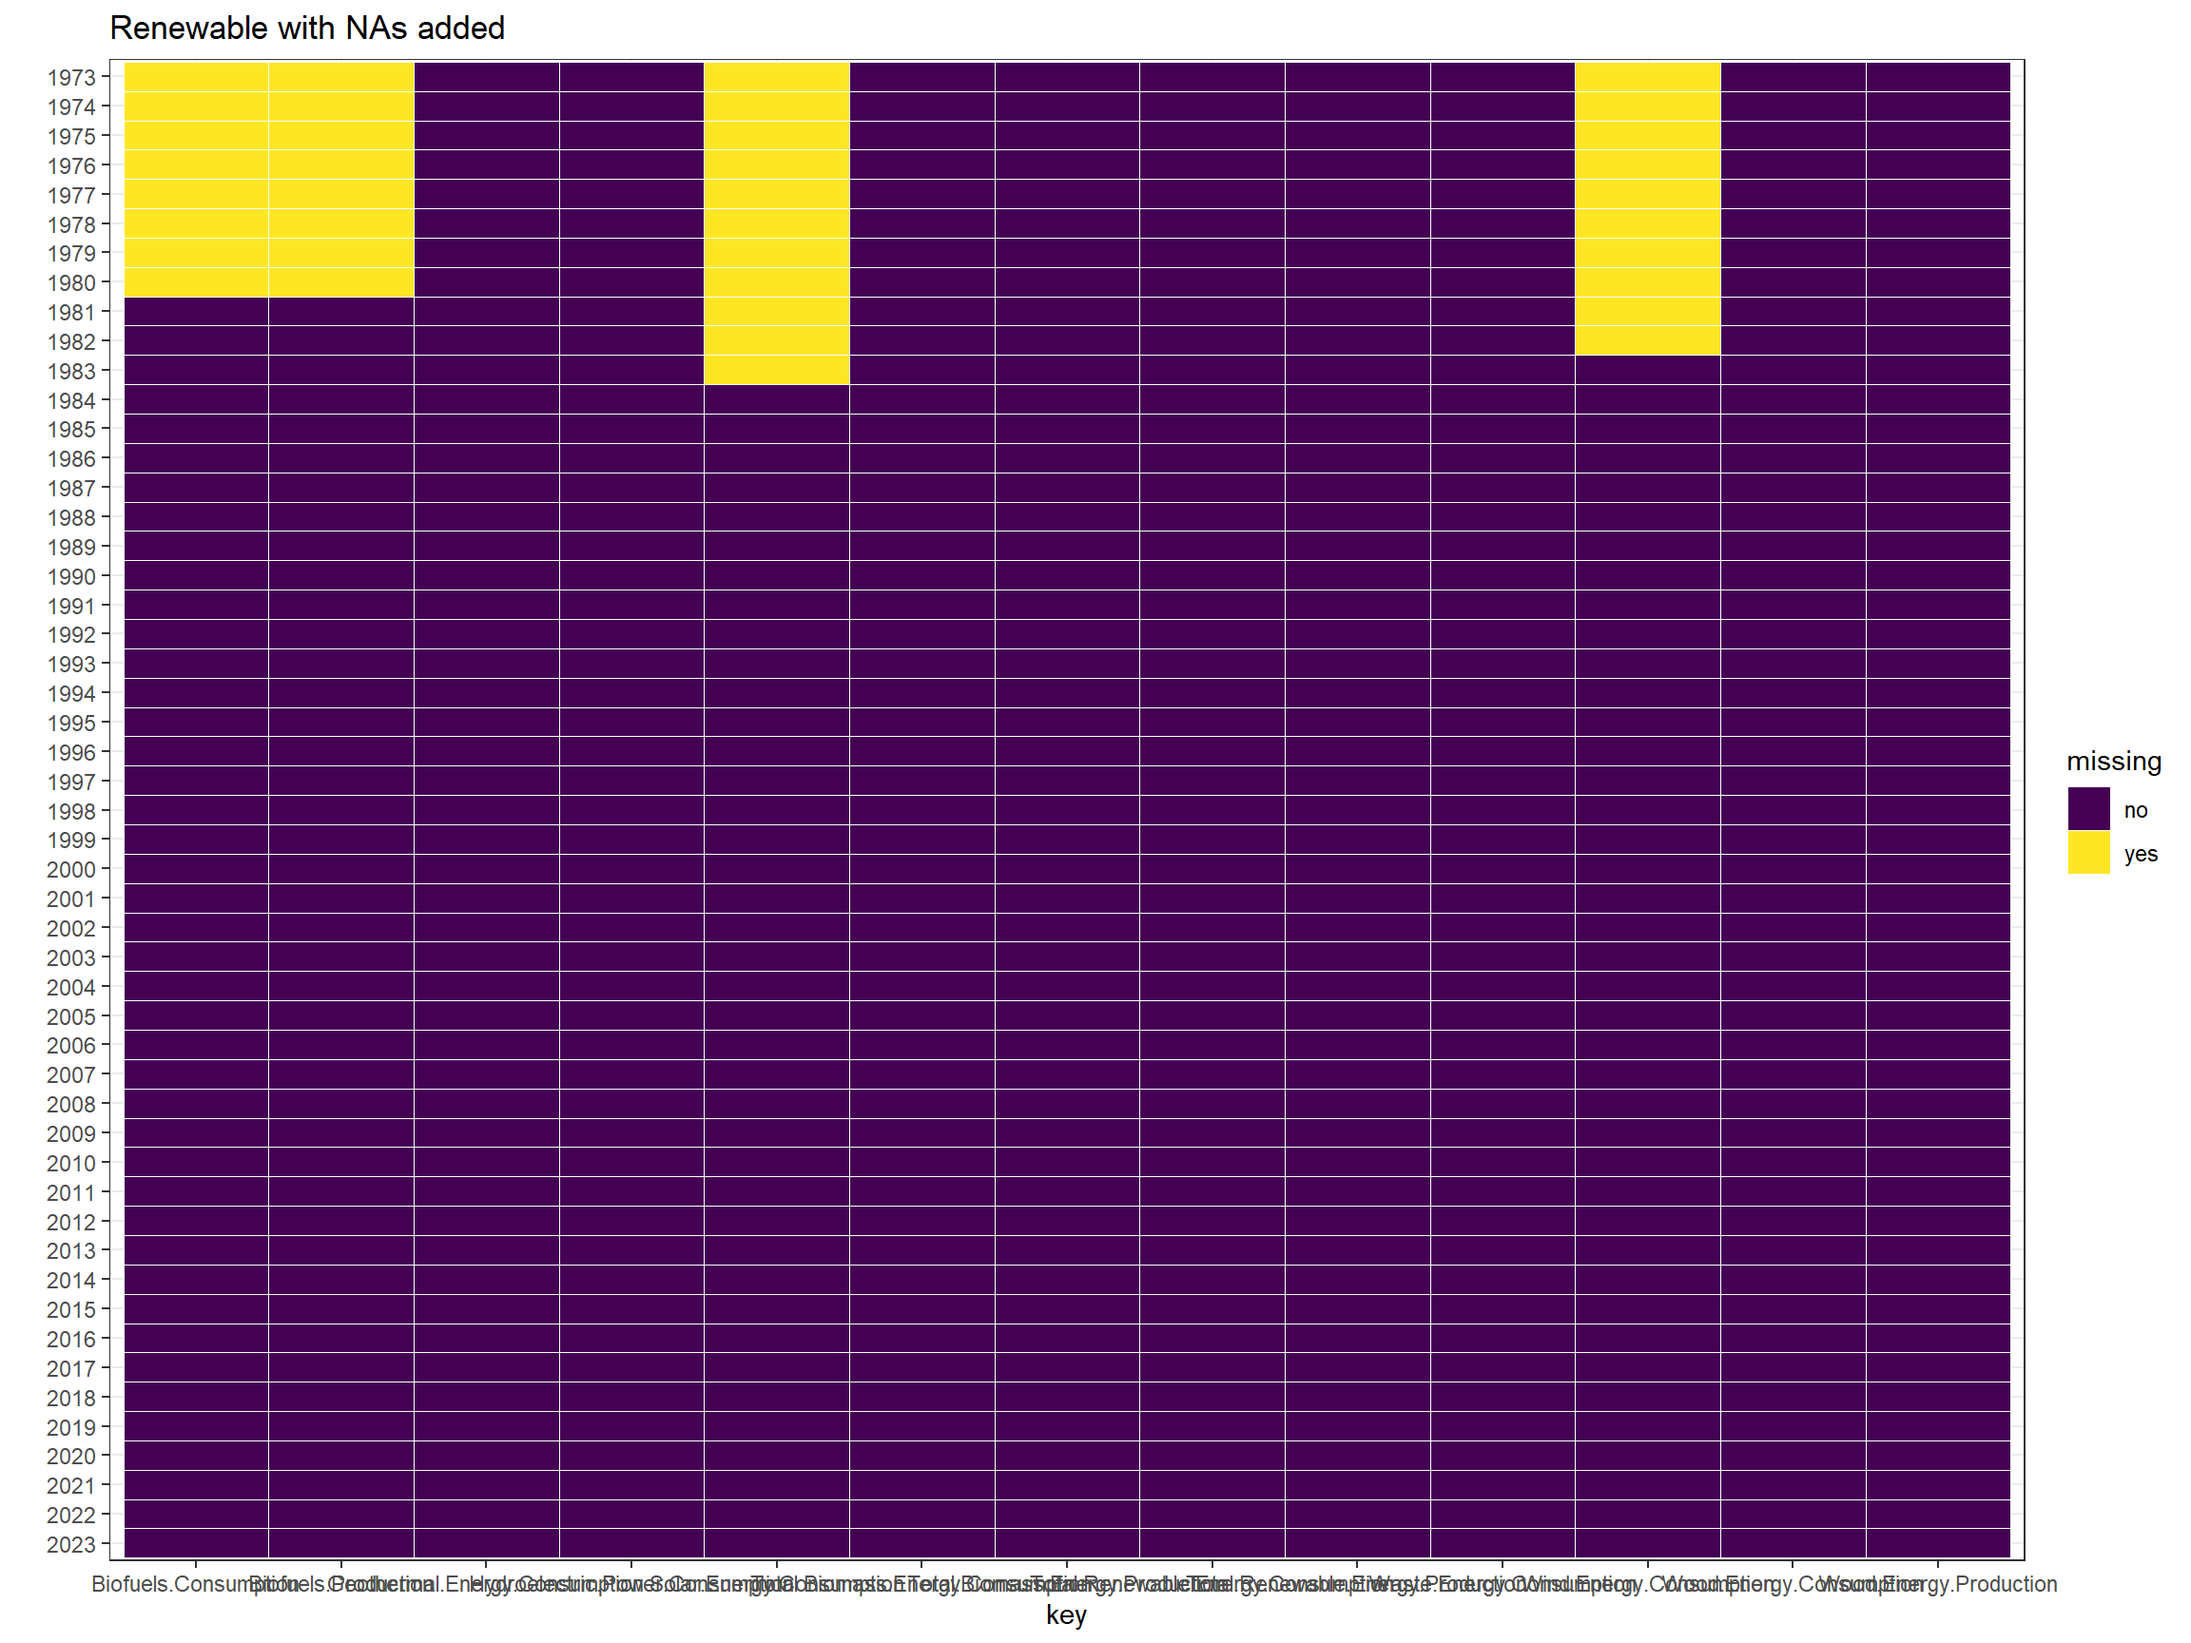
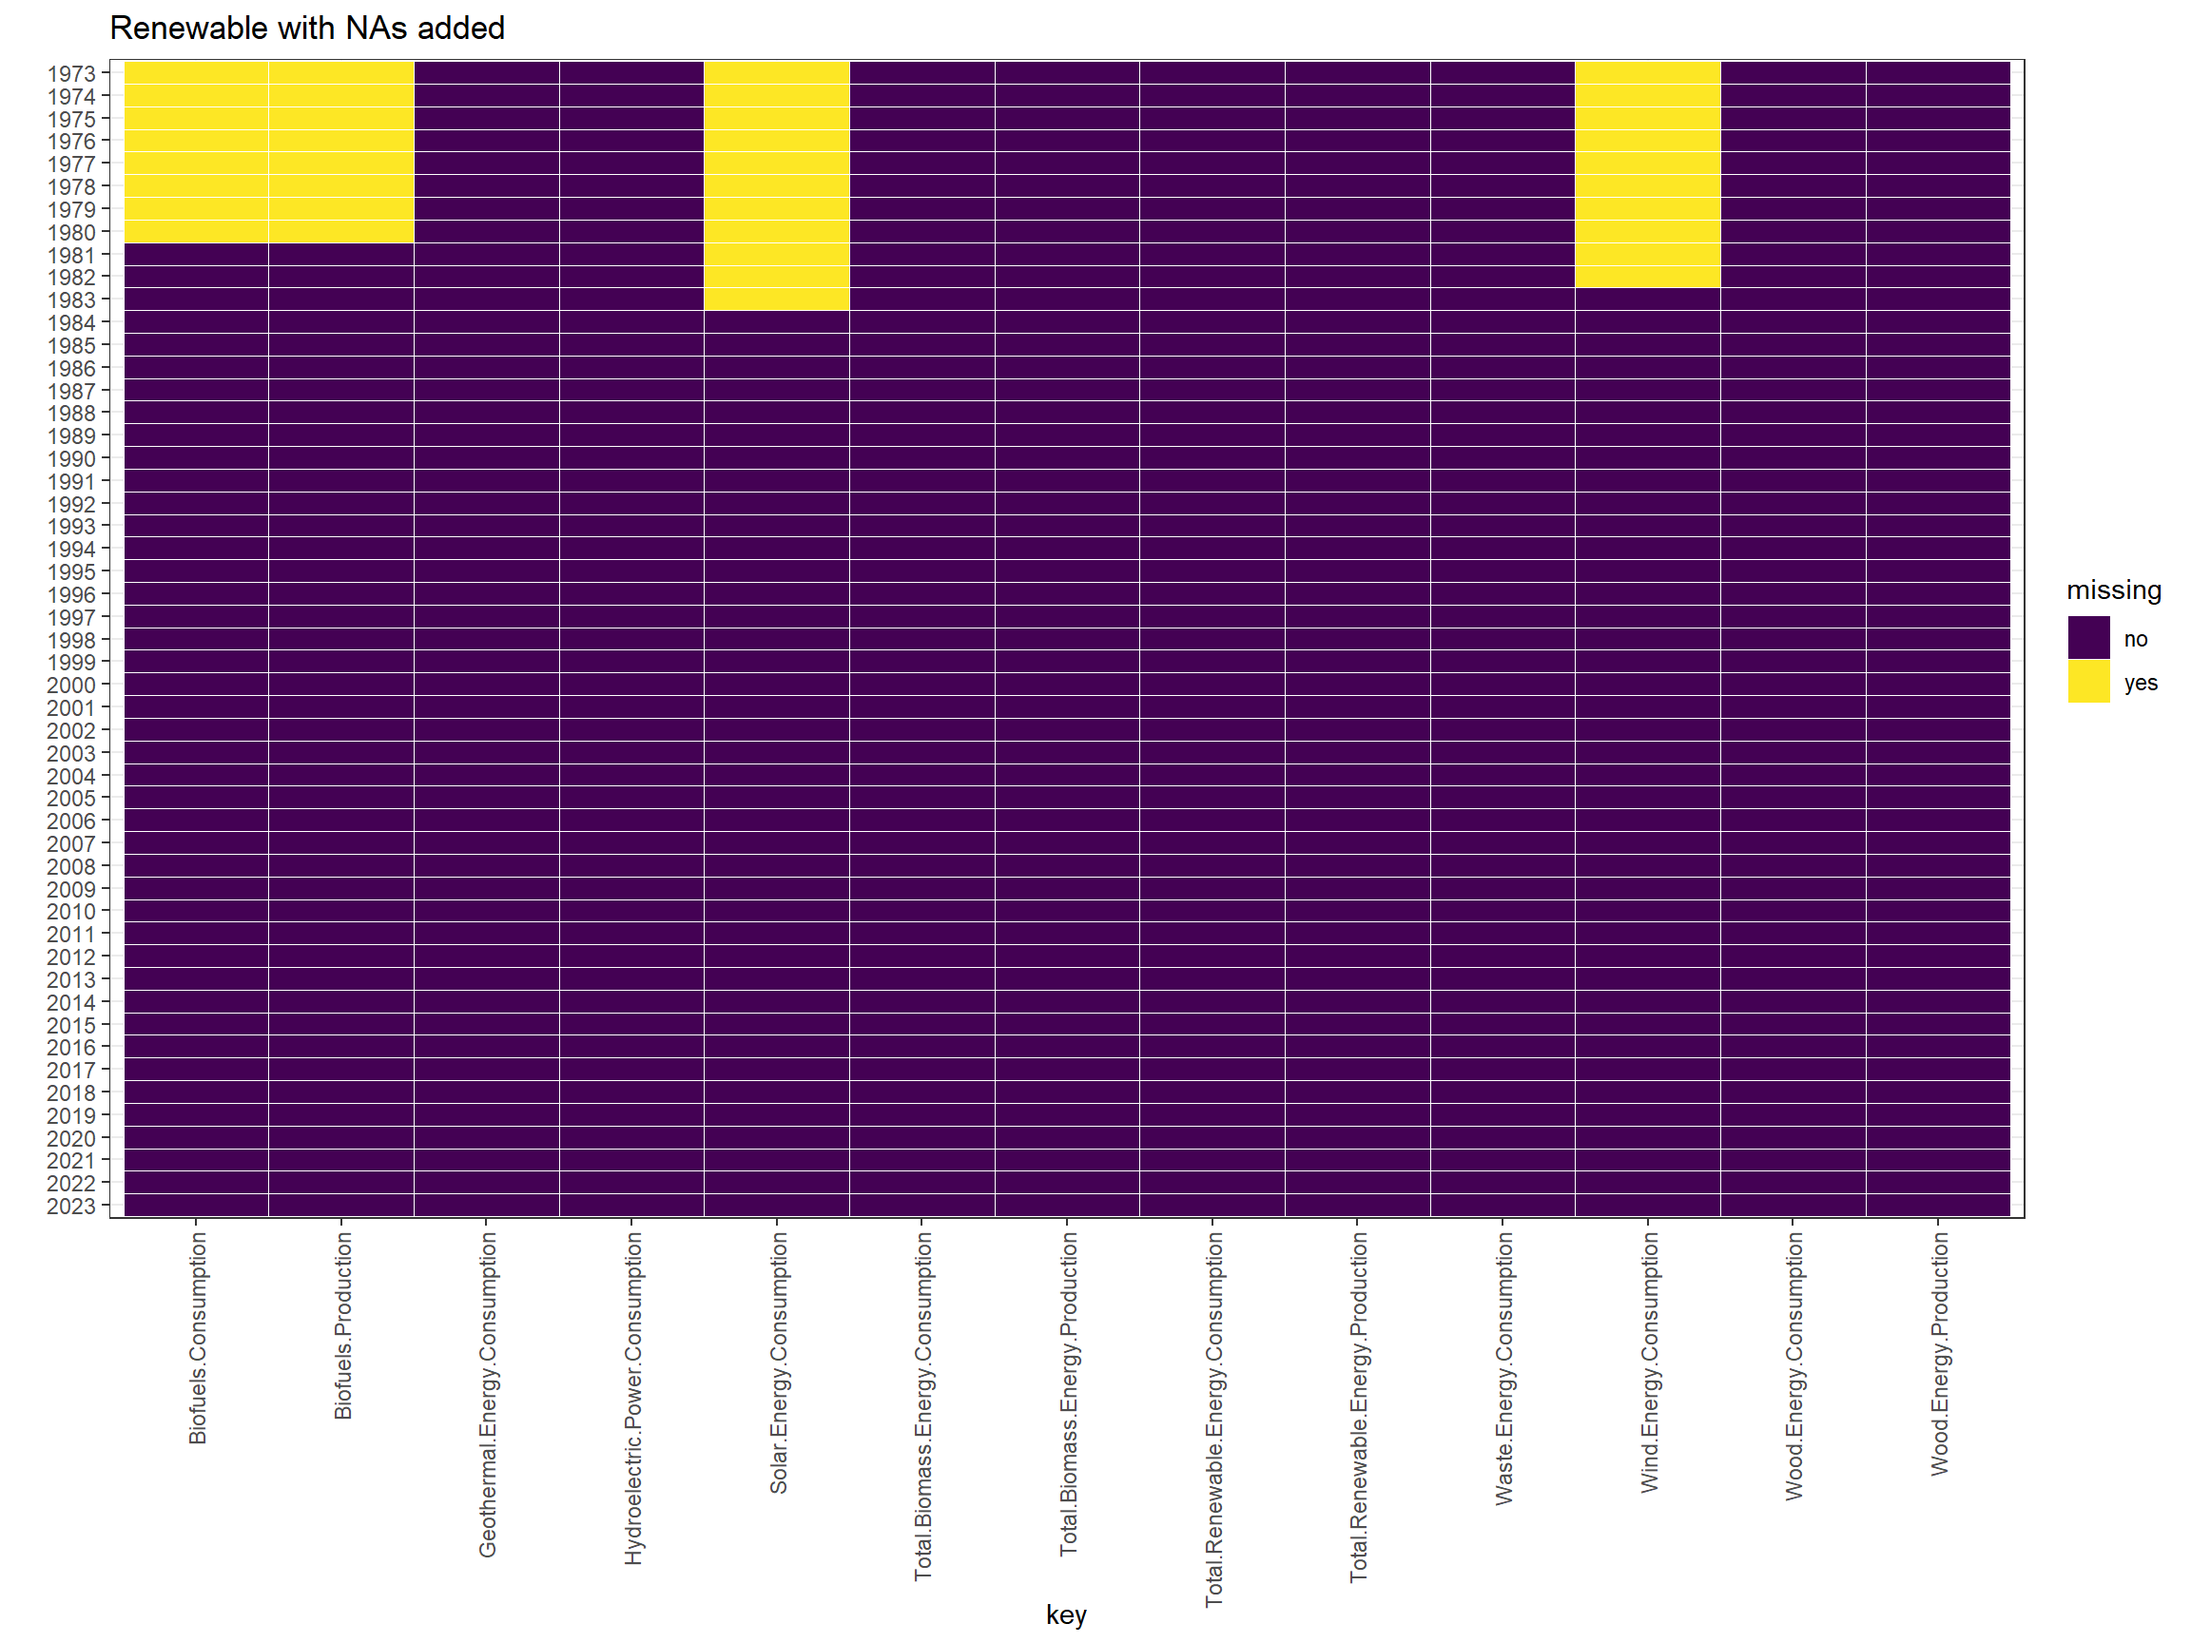
Final changes for pset4 (hopefully)

diff --git a/docs/data.html b/docs/data.html
@@ -96,6 +96,8 @@ pre > code.sourceCode > span > a:first-child::before { text-decoration: underlin
   }
 }</script>
 
+  <script src="https://polyfill.io/v3/polyfill.min.js?features=es6"></script>
+  <script src="https://cdn.jsdelivr.net/npm/mathjax@3/es5/tex-chtml-full.js" type="text/javascript"></script>
 
 </head>
 
@@ -208,9 +210,9 @@ pre > code.sourceCode > span > a:first-child::before { text-decoration: underlin
 <p>Data source link: <a href="https://www.eia.gov/totalenergy/data/monthly/" class="uri">https://www.eia.gov/totalenergy/data/monthly/</a></p>
 <p>This data source contains multiple data tables, and we will focus on the following data tables:</p>
 <ol type="1">
-<li>Energy Review Category: “Table_1.1_Primary_Energy_Overview”, “Table_1.2_Primary_Energy_Production_by_Source”, “Table_1.3_Primary_Energy_Consumption_by_Source”</li>
-<li>Renewable Energy Category: “Table_10.1_Renewable_Energy_Production_and_Consumption_by_Source”</li>
-<li>Environment Category: “Table_11.1_Carbon_Dioxide_Emissions_From_Energy_Consumption_by_Source”</li>
+<li>Energy Review Category: “Table_1.1_Primary_Energy_Overview” (608 rows each for one month, 13 columns with one column of months and 12 columns of energy production and consumption data), “Table_1.2_Primary_Energy_Production_by_Source” (608 rows each for one month, 14 columns with one column of months and 13 columns of energy production data), “Table_1.3_Primary_Energy_Consumption_by_Source” (608 rows each for one month, 13 columns with one column of months and 12 columns of energy consumption data)</li>
+<li>Renewable Energy Category: “Table_10.1_Renewable_Energy_Production_and_Consumption_by_Source” (608 rows each for one month, 14 columns with one column of months and 13 columns of renewable energy production and consumption data)</li>
+<li>Environment Category: “Table_11.1_Carbon_Dioxide_Emissions_From_Energy_Consumption_by_Source” (608 rows each for one month, 15 columns with one column of months and 14 columns of <span class="math inline">\(CO_2\)</span> emission data by different energy source)</li>
 <li>Energy Prices Category</li>
 </ol>
 <p>Given that all tables possess a common column ‘Month’ representing time, we are using ‘Month’ as the primary key to consolidate all tables.</p>
@@ -325,7 +327,8 @@ Attaching package: 'dplyr'</code></pre>
 <span id="cb11-3"><a href="#cb11-3" aria-hidden="true" tabindex="-1"></a>  <span class="fu">ggtitle</span>(<span class="st">"Renewable with NAs added"</span>) <span class="sc">+</span></span>
 <span id="cb11-4"><a href="#cb11-4" aria-hidden="true" tabindex="-1"></a>  <span class="fu">ylab</span>(<span class="st">''</span>) <span class="sc">+</span> </span>
 <span id="cb11-5"><a href="#cb11-5" aria-hidden="true" tabindex="-1"></a>  <span class="fu">scale_fill_viridis_d</span>() <span class="sc">+</span> <span class="co"># discrete scale</span></span>
-<span id="cb11-6"><a href="#cb11-6" aria-hidden="true" tabindex="-1"></a>  <span class="fu">theme_bw</span>()</span></code><button title="Copy to Clipboard" class="code-copy-button"><i class="bi"></i></button></pre></div>
+<span id="cb11-6"><a href="#cb11-6" aria-hidden="true" tabindex="-1"></a>  <span class="fu">theme_bw</span>() <span class="sc">+</span></span>
+<span id="cb11-7"><a href="#cb11-7" aria-hidden="true" tabindex="-1"></a>  <span class="fu">theme</span>(<span class="at">axis.text.x =</span> <span class="fu">element_text</span>(<span class="at">angle =</span> <span class="dv">90</span>, <span class="at">vjust =</span> <span class="fl">0.5</span>, <span class="at">hjust=</span><span class="dv">1</span>))</span></code><button title="Copy to Clipboard" class="code-copy-button"><i class="bi"></i></button></pre></div>
 </details>
 <div class="cell-output-display">
 <p><img src="data_files/figure-html/unnamed-chunk-5-1.png" class="img-fluid" width="1152"></p>
@@ -340,7 +343,9 @@ Attaching package: 'dplyr'</code></pre>
 <span id="cb12-4"><a href="#cb12-4" aria-hidden="true" tabindex="-1"></a><span class="fu">ggplot</span>(newdata, <span class="fu">aes</span>(<span class="at">x =</span> key, <span class="at">y =</span> <span class="fu">fct_rev</span>(year), <span class="at">fill =</span> Std)) <span class="sc">+</span></span>
 <span id="cb12-5"><a href="#cb12-5" aria-hidden="true" tabindex="-1"></a>  <span class="fu">geom_tile</span>(<span class="at">color =</span> <span class="st">"white"</span>) <span class="sc">+</span> </span>
 <span id="cb12-6"><a href="#cb12-6" aria-hidden="true" tabindex="-1"></a>  <span class="fu">ylab</span>(<span class="st">''</span>) <span class="sc">+</span> </span>
-<span id="cb12-7"><a href="#cb12-7" aria-hidden="true" tabindex="-1"></a>  <span class="fu">scale_fill_gradient2</span>(<span class="at">low =</span> <span class="st">"blue"</span>, <span class="at">mid =</span> <span class="st">"white"</span>, <span class="at">high =</span><span class="st">"yellow"</span>, <span class="at">na.value =</span> <span class="st">"black"</span>) <span class="sc">+</span> <span class="fu">theme_bw</span>()</span></code><button title="Copy to Clipboard" class="code-copy-button"><i class="bi"></i></button></pre></div>
+<span id="cb12-7"><a href="#cb12-7" aria-hidden="true" tabindex="-1"></a>  <span class="fu">scale_fill_gradient2</span>(<span class="at">low =</span> <span class="st">"blue"</span>, <span class="at">mid =</span> <span class="st">"white"</span>, <span class="at">high =</span><span class="st">"yellow"</span>, <span class="at">na.value =</span> <span class="st">"black"</span>) <span class="sc">+</span></span>
+<span id="cb12-8"><a href="#cb12-8" aria-hidden="true" tabindex="-1"></a>  <span class="fu">theme_bw</span>() <span class="sc">+</span></span>
+<span id="cb12-9"><a href="#cb12-9" aria-hidden="true" tabindex="-1"></a>  <span class="fu">theme</span>(<span class="at">axis.text.x =</span> <span class="fu">element_text</span>(<span class="at">angle =</span> <span class="dv">90</span>, <span class="at">vjust =</span> <span class="fl">0.5</span>, <span class="at">hjust=</span><span class="dv">1</span>))</span></code><button title="Copy to Clipboard" class="code-copy-button"><i class="bi"></i></button></pre></div>
 </details>
 <div class="cell-output-display">
 <p><img src="data_files/figure-html/unnamed-chunk-6-1.png" class="img-fluid" width="1152"></p>
